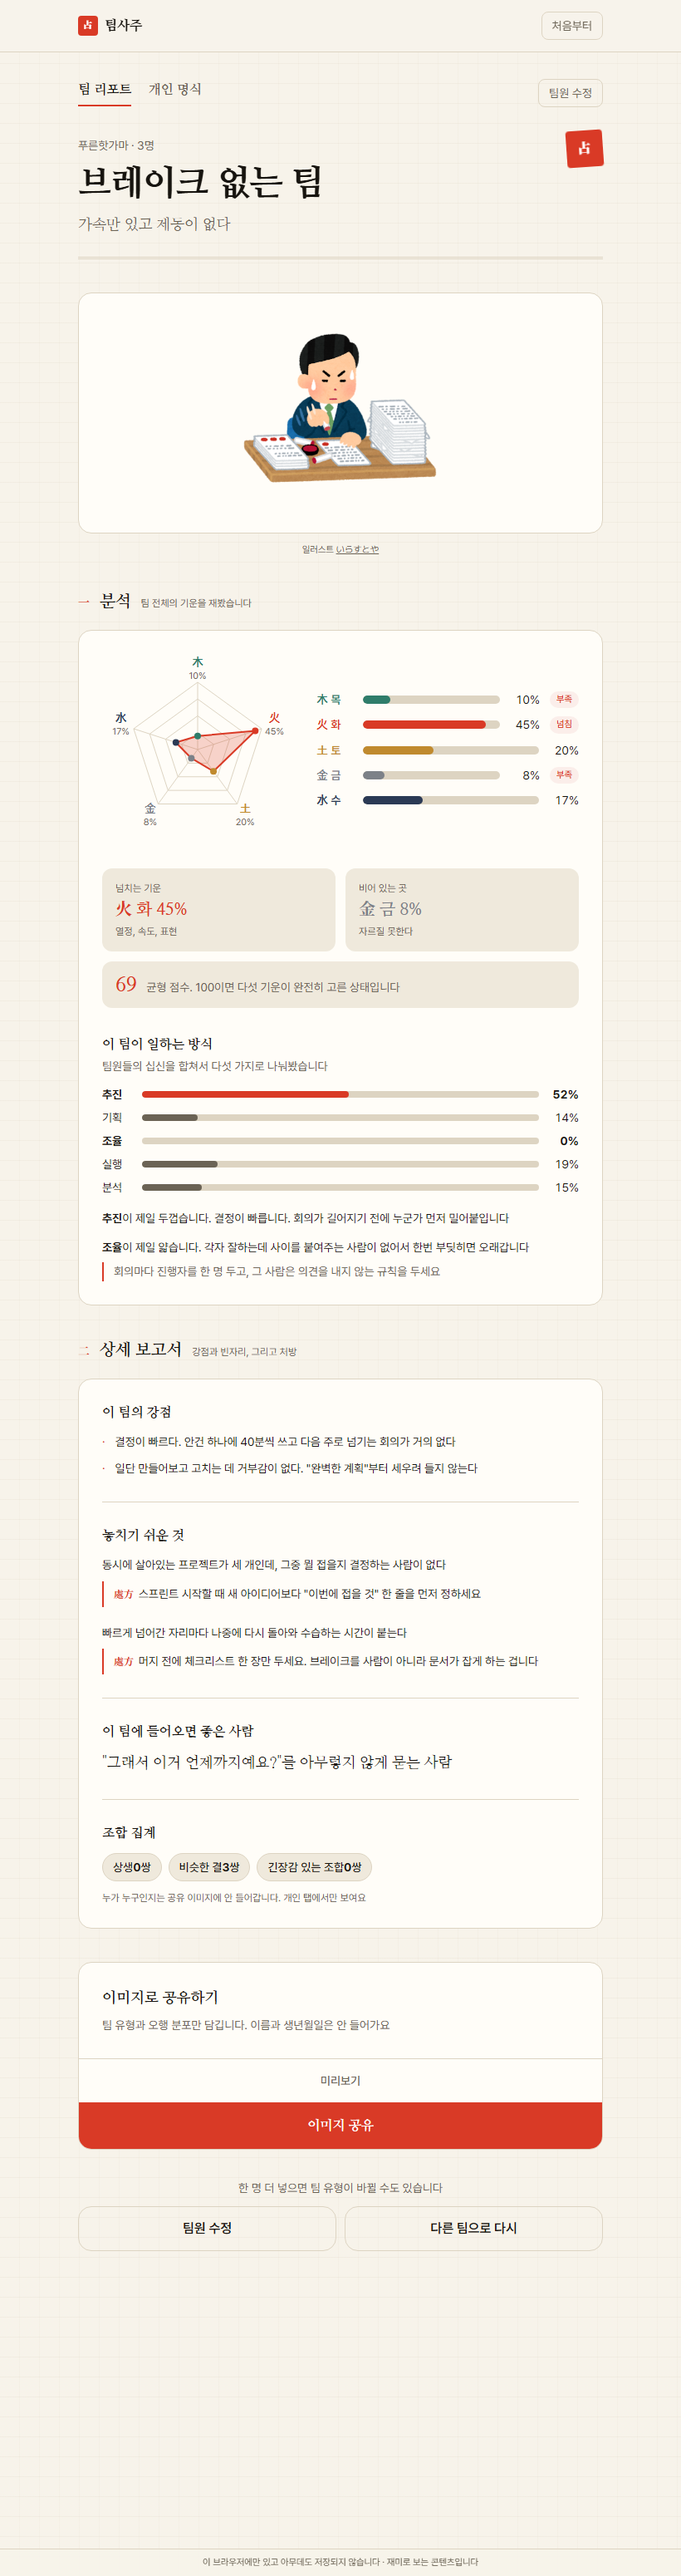
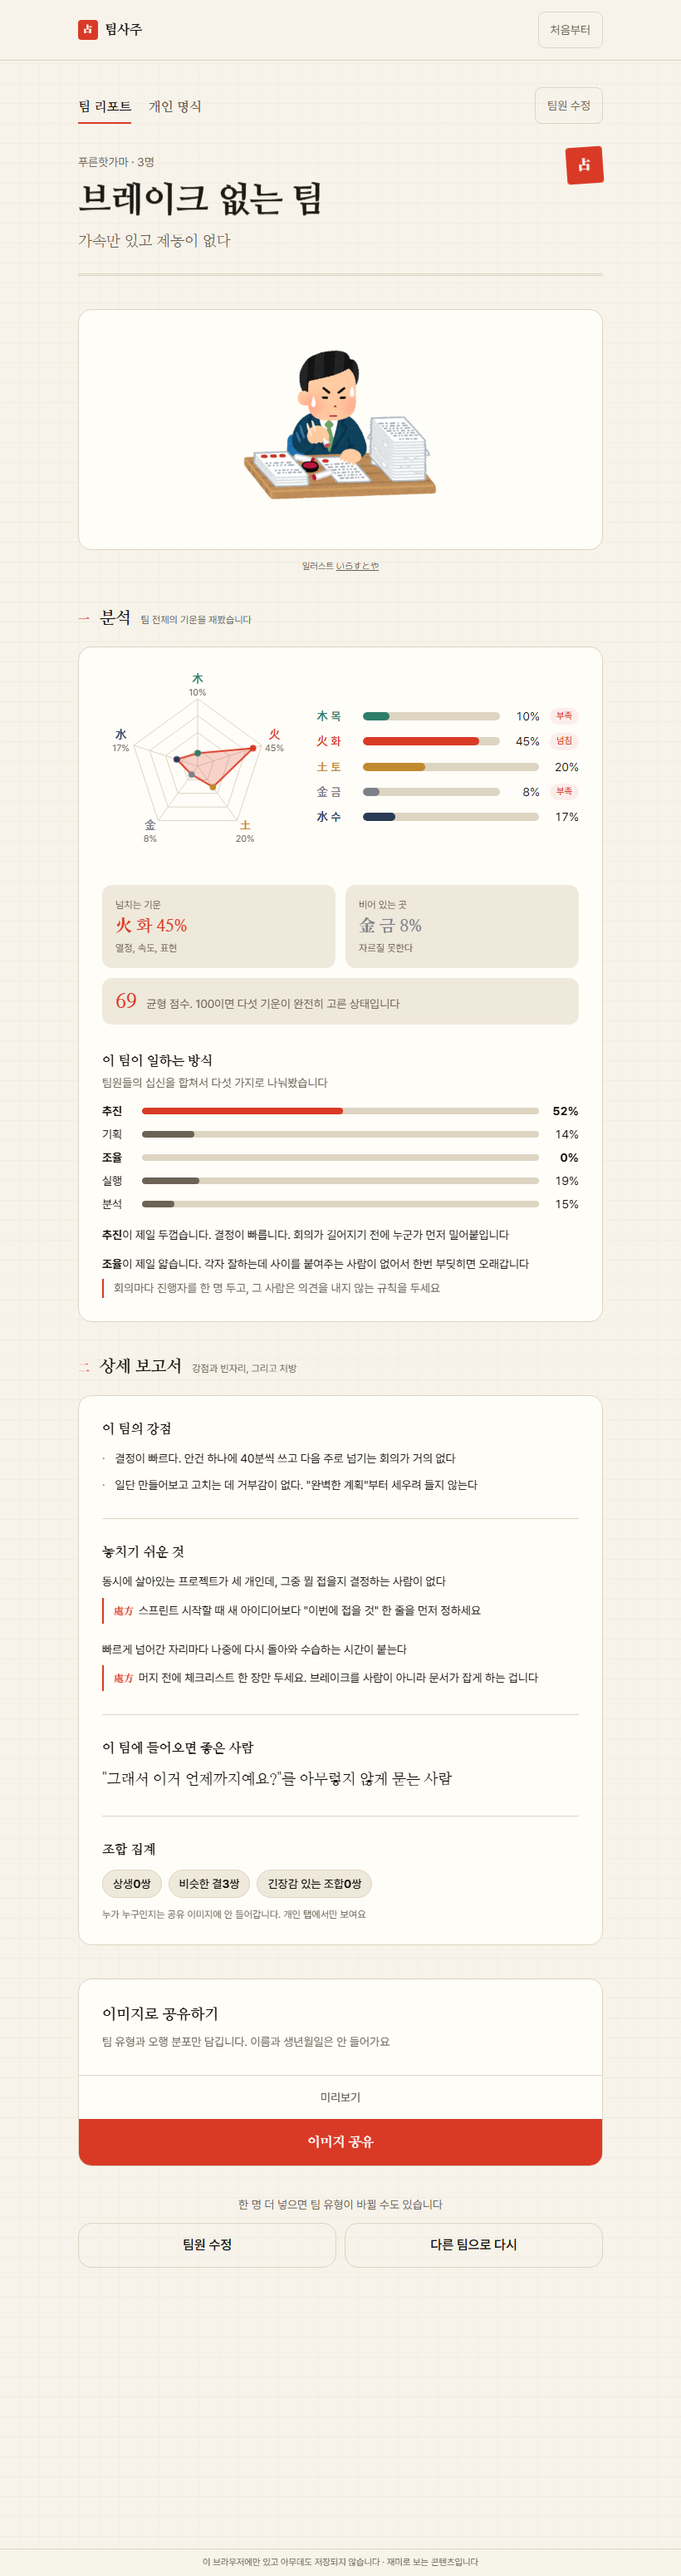
design: 차트가 차오르는 모션과 눌리는 반응을 넣는다

diff --git a/src/lib/ui/useReveal.ts b/src/lib/ui/useReveal.ts
@@ -1,0 +1,92 @@
+import { useEffect, useRef, useState } from 'react'
+
+/** 관찰자가 안 불릴 때 그냥 켜버리는 시간 */
+const FALLBACK_MS = 1200
+
+/** 모션을 꺼둔 사람에게는 애니메이션 없이 최종 상태로 바로 준다 */
+export function prefersReducedMotion(): boolean {
+  return (
+    typeof matchMedia === 'function' &&
+    matchMedia('(prefers-reduced-motion: reduce)').matches
+  )
+}
+
+/**
+ * 화면에 들어올 때 한 번만 켜진다.
+ *
+ * 결과 화면이 길어서 아래쪽 차트는 스크롤해야 보인다. 처음부터 재생하면
+ * 도착했을 때 이미 끝나 있다. 들어오는 순간 시작해야 채워지는 게 보인다.
+ *
+ * 한 번 켜지면 관찰을 끊는다. 스크롤을 오르내릴 때마다 다시 차오르면 성가시다.
+ *
+ * 폴백 타이머를 같이 둔다. 관찰자가 어떤 이유로든 안 불리면 차트가 0 인 채로 영원히 남는다.
+ * 애니메이션을 못 보는 건 참을 수 있어도 결과가 안 보이는 건 안 된다.
+ */
+export function useReveal<T extends Element>() {
+  const ref = useRef<T>(null)
+  // 관찰할 방법이 없거나 모션을 껐으면 처음부터 켜둔다
+  const [shown, setShown] = useState(
+    () => prefersReducedMotion() || typeof IntersectionObserver !== 'function',
+  )
+
+  useEffect(() => {
+    if (shown) return
+    const el = ref.current
+    if (!el) return
+
+    const fallback = window.setTimeout(() => setShown(true), FALLBACK_MS)
+
+    const io = new IntersectionObserver(
+      (entries) => {
+        if (entries.some((e) => e.isIntersecting)) {
+          setShown(true)
+          io.disconnect()
+        }
+      },
+      { threshold: 0.2 },
+    )
+    io.observe(el)
+    return () => {
+      io.disconnect()
+      window.clearTimeout(fallback)
+    }
+  }, [shown])
+
+  return { ref, shown }
+}
+
+/**
+ * 0에서 목표값까지 세어 올린다.
+ *
+ * requestAnimationFrame 으로 돈다. setInterval 은 프레임과 안 맞아서 숫자가 튄다.
+ *
+ * 여기도 받침을 둔다. rAF 는 문서가 숨겨지면 멈추는데, 그 사이 화면에 0 이 남아 있으면
+ * 균형 점수가 0점인 것처럼 보인다. 애니메이션보다 맞는 숫자가 먼저다.
+ */
+export function useCountUp(target: number, run: boolean, ms = 900): number {
+  const [value, setValue] = useState(() => (prefersReducedMotion() ? target : 0))
+
+  useEffect(() => {
+    if (!run) return
+
+    // 모션을 껐으면 길이를 0으로 둔다. 첫 프레임에 목표값으로 끝난다
+    const duration = prefersReducedMotion() ? 0 : ms
+    let raf = 0
+    const start = performance.now()
+    const tick = (now: number) => {
+      const t = duration === 0 ? 1 : Math.min((now - start) / duration, 1)
+      // 감속 곡선. 끝에서 부드럽게 멈춘다
+      const eased = 1 - Math.pow(1 - t, 3)
+      setValue(Math.round(target * eased))
+      if (t < 1) raf = requestAnimationFrame(tick)
+    }
+    raf = requestAnimationFrame(tick)
+    const fallback = window.setTimeout(() => setValue(target), duration + 400)
+    return () => {
+      cancelAnimationFrame(raf)
+      window.clearTimeout(fallback)
+    }
+  }, [target, run, ms])
+
+  return value
+}

diff --git a/src/components/Saju/SajuElementRadar.tsx b/src/components/Saju/SajuElementRadar.tsx
@@ -1,6 +1,7 @@
 import { ELEMENTS, ELEMENT_LABEL } from '../../lib/saju/constants'
 import { ELEMENT_COLOR } from '../../lib/ui/elementStyle'
 import type { ElementScores } from '../../lib/saju/types'
+import { useReveal } from '../../lib/ui/useReveal'
 
 type Props = {
   percents: ElementScores
@@ -21,6 +22,7 @@ function point(index: number, ratio: number, radius: number, center: number) {
 
 /** 오행 5각 레이더. 차트 라이브러리 대신 직접 그린다 */
 export function SajuElementRadar({ percents, size = 240, showLabels = true }: Props) {
+  const { ref, shown } = useReveal<SVGSVGElement>()
   const center = size / 2
   const radius = size / 2 - (showLabels ? 34 : 10)
 
@@ -34,6 +36,7 @@ export function SajuElementRadar({ percents, size = 240, showLabels = true }: Pr
 
   return (
     <svg
+      ref={ref}
       width={size}
       height={size}
       viewBox={`0 0 ${size} ${size}`}
@@ -64,19 +67,33 @@ export function SajuElementRadar({ percents, size = 240, showLabels = true }: Pr
         )
       })}
 
-      <polygon
-        points={shape}
-        fill="var(--accent)"
-        fillOpacity={0.22}
-        stroke="var(--accent)"
-        strokeWidth={2}
-        strokeLinejoin="round"
-      />
+      {/*
+        폴리곤 points 는 CSS 로 전이가 안 된다. 중심에서 펴지는 것처럼 보이게
+        transform scale 을 준다. 꼭짓점 원도 같이 딸려 나온다.
+      */}
+      <g
+        style={{
+          transform: shown ? 'scale(1)' : 'scale(0)',
+          transformOrigin: `${center}px ${center}px`,
+          opacity: shown ? 1 : 0,
+          transition:
+            'transform 800ms cubic-bezier(0.22, 1, 0.36, 1), opacity 400ms ease-out',
+        }}
+      >
+        <polygon
+          points={shape}
+          fill="var(--accent)"
+          fillOpacity={0.22}
+          stroke="var(--accent)"
+          strokeWidth={2}
+          strokeLinejoin="round"
+        />
 
-      {ELEMENTS.map((el, i) => {
-        const [x, y] = point(i, Math.min(percents[el] / MAX, 1), radius, center)
-        return <circle key={el} cx={x} cy={y} r={4} fill={ELEMENT_COLOR[el]} />
-      })}
+        {ELEMENTS.map((el, i) => {
+          const [x, y] = point(i, Math.min(percents[el] / MAX, 1), radius, center)
+          return <circle key={el} cx={x} cy={y} r={4} fill={ELEMENT_COLOR[el]} />
+        })}
+      </g>
 
       {showLabels &&
         ELEMENTS.map((el, i) => {

diff --git a/src/components/Saju/SajuElementBars.tsx b/src/components/Saju/SajuElementBars.tsx
@@ -1,4 +1,5 @@
 import { ELEMENTS, ELEMENT_LABEL, ELEMENT_TEAM_MEANING } from '../../lib/saju/constants'
+import { useReveal } from '../../lib/ui/useReveal'
 import type { ElementFlag, ElementScores } from '../../lib/saju/types'
 import { ELEMENT_COLOR } from '../../lib/ui/elementStyle'
 
@@ -16,9 +17,11 @@ type Props = {
 }
 
 export function SajuElementBars({ percents, flags, showMeaning = false }: Props) {
+  const { ref, shown } = useReveal<HTMLUListElement>()
+
   return (
-    <ul className="flex flex-col gap-2.5">
-      {ELEMENTS.map((el) => {
+    <ul ref={ref} className="flex flex-col gap-2.5">
+      {ELEMENTS.map((el, i) => {
         const flag = flags?.[el] ?? 'normal'
         return (
           <li key={el} className="flex items-center gap-3">
@@ -33,10 +36,13 @@ export function SajuElementBars({ percents, flags, showMeaning = false }: Props)
               style={{ background: 'var(--rule)' }}
             >
               <div
-                className="h-full rounded-full transition-[width] duration-500"
+                className="h-full rounded-full"
                 style={{
-                  width: `${Math.min(percents[el] * 2, 100)}%`,
+                  // 원소마다 조금씩 늦게 출발시켜서 하나씩 차오르게 한다
+                  width: shown ? `${Math.min(percents[el] * 2, 100)}%` : 0,
                   background: ELEMENT_COLOR[el],
+                  transition: 'width 700ms cubic-bezier(0.22, 1, 0.36, 1)',
+                  transitionDelay: `${i * 70}ms`,
                 }}
               />
             </div>

diff --git a/src/components/Result/TeamAnalysis.tsx b/src/components/Result/TeamAnalysis.tsx
@@ -1,6 +1,7 @@
 import { CommonSection, CommonWell } from '../Common'
 import { SajuElementBars, SajuElementRadar, SajuTraitBars } from '../Saju'
 import { readTraits } from '../../lib/report/traits'
+import { useCountUp, useReveal } from '../../lib/ui/useReveal'
 import type { TeamReport } from '../../lib/report/teamReport'
 import { ELEMENT_LABEL } from '../../lib/saju/constants'
 import { ELEMENT_COLOR } from '../../lib/ui/elementStyle'
@@ -9,6 +10,8 @@ export function TeamAnalysis({ report }: { report: TeamReport }) {
   const { analysis, dominant, lacking } = report
   const reading = readTraits(analysis.traits)
   const solo = analysis.size === 1
+  const { ref: balanceRef, shown: balanceShown } = useReveal<HTMLDivElement>()
+  const balanceValue = useCountUp(analysis.balance, balanceShown)
 
   return (
     <CommonSection
@@ -39,11 +42,15 @@ export function TeamAnalysis({ report }: { report: TeamReport }) {
       </div>
 
       <div
+        ref={balanceRef}
         className="mt-3 flex items-baseline gap-3 rounded-xl px-4 py-3"
         style={{ background: 'var(--paper-deep)' }}
       >
-        <span className="serif text-2xl font-bold" style={{ color: 'var(--accent)' }}>
-          {analysis.balance}
+        <span
+          className="serif text-2xl font-bold tabular-nums"
+          style={{ color: 'var(--accent)' }}
+        >
+          {balanceValue}
         </span>
         <span className="text-sm" style={{ color: 'var(--ink-soft)' }}>
           균형 점수. 100이면 다섯 기운이 완전히 고른 상태입니다

diff --git a/src/components/Saju/SajuTraitBars.tsx b/src/components/Saju/SajuTraitBars.tsx
@@ -1,4 +1,5 @@
 import { TRAIT_AXES } from '../../lib/saju/constants'
+import { useReveal } from '../../lib/ui/useReveal'
 import type { TraitAxes, TraitAxis } from '../../lib/saju/types'
 
 /**
@@ -16,9 +17,11 @@ export function SajuTraitBars({
    */
   highlight?: TraitAxis[]
 }) {
+  const { ref, shown } = useReveal<HTMLUListElement>()
+
   return (
-    <ul className="flex flex-col gap-2">
-      {TRAIT_AXES.map((axis) => {
+    <ul ref={ref} className="flex flex-col gap-2">
+      {TRAIT_AXES.map((axis, i) => {
         const dim = highlight != null && !highlight.includes(axis)
         const weight = highlight != null && !dim ? 'font-bold' : ''
         return (
@@ -31,8 +34,10 @@ export function SajuTraitBars({
               <div
                 className="h-full rounded-full"
                 style={{
-                  width: `${traits[axis]}%`,
+                  width: shown ? `${traits[axis]}%` : 0,
                   background: dim ? 'var(--ink-soft)' : 'var(--accent)',
+                  transition: 'width 700ms cubic-bezier(0.22, 1, 0.36, 1)',
+                  transitionDelay: `${i * 70}ms`,
                 }}
               />
             </div>

diff --git a/src/pages/ResultPage.tsx b/src/pages/ResultPage.tsx
@@ -34,7 +34,7 @@ export function ResultPage() {
               type="button"
               onClick={() => setTab(key)}
               aria-pressed={tab === key}
-              className="serif flex min-h-11 items-end pb-1.5 text-base font-bold"
+              className="press serif flex min-h-11 items-end pb-1.5 text-base font-bold"
               style={{
                 color: tab === key ? 'var(--ink)' : 'var(--ink-soft)',
                 borderBottom:
@@ -48,7 +48,7 @@ export function ResultPage() {
         <button
           type="button"
           onClick={goBack}
-          className="min-h-11 rounded-lg px-3.5 text-sm"
+          className="press min-h-11 rounded-lg px-3.5 text-sm"
           style={{ border: '1px solid var(--rule)', color: 'var(--ink-soft)' }}
         >
           팀원 수정

diff --git a/src/components/Input/InputMemberList.tsx b/src/components/Input/InputMemberList.tsx
@@ -45,7 +45,7 @@ export function InputMemberList({ charts, onRemove }: Props) {
               type="button"
               onClick={() => onRemove(c.member.id)}
               aria-label={`${c.member.name} 삭제`}
-              className="flex size-8 items-center justify-center rounded-full text-sm focus-visible:outline-2 focus-visible:outline-offset-2"
+              className="press flex size-8 items-center justify-center rounded-full text-sm focus-visible:outline-2 focus-visible:outline-offset-2"
               style={{
                 background: 'var(--paper-deep)',
                 color: 'var(--ink-soft)',

diff --git a/src/components/Common/CommonButton.tsx b/src/components/Common/CommonButton.tsx
@@ -20,8 +20,8 @@ type Props = ButtonHTMLAttributes<HTMLButtonElement> & {
 const BASE =
   'inline-flex items-center justify-center select-none transition-[transform,filter,background-color] duration-150 ease-out disabled:opacity-40 disabled:pointer-events-none focus-visible:outline-2 focus-visible:outline-offset-2'
 
-/** 눌리는 반응. 살짝 줄고 어두워진다 */
-const PRESS = 'active:scale-[0.985] active:brightness-90'
+/** 눌리는 반응. index.css 의 .press 를 공유한다 */
+const PRESS = 'press'
 
 const SHAPE = {
   normal: 'rounded-2xl px-5 py-3.5 text-base font-semibold',

diff --git a/src/index.css b/src/index.css
@@ -189,3 +189,25 @@ body {
     transition-duration: 0.01ms !important;
   }
 }
+
+/*
+ * 눌리는 반응.
+ * CommonButton 말고도 탭, 칩, 삭제 버튼처럼 누르는 게 많은데 반응이 없으면 밋밋하다.
+ * 모션을 꺼둔 사람에게는 위의 reduced-motion 블록이 전이 시간을 없애준다.
+ */
+.press {
+  transition:
+    transform 150ms ease-out,
+    filter 150ms ease-out;
+}
+
+.press:active {
+  transform: scale(0.96);
+  filter: brightness(0.92);
+}
+
+@media (prefers-reduced-motion: reduce) {
+  .press:active {
+    transform: none;
+  }
+}

diff --git a/src/components/Input/InputUndoToast.tsx b/src/components/Input/InputUndoToast.tsx
@@ -41,7 +41,7 @@ export function InputUndoToast() {
       <button
         type="button"
         onClick={undoRemove}
-        className="serif min-h-11 shrink-0 rounded-lg px-4 text-sm font-bold underline underline-offset-4 focus-visible:outline-2 focus-visible:outline-offset-2"
+        className="press serif min-h-11 shrink-0 rounded-lg px-4 text-sm font-bold underline underline-offset-4 focus-visible:outline-2 focus-visible:outline-offset-2"
         style={{ color: 'var(--paper)', outlineColor: 'var(--paper)' }}
       >
         되돌리기

diff --git a/src/components/Result/PersonalView.tsx b/src/components/Result/PersonalView.tsx
@@ -38,7 +38,7 @@ export function PersonalView({
             type="button"
             onClick={() => setSelected(i)}
             aria-pressed={i === selected}
-            className="rounded-full px-3.5 py-1.5 text-sm font-medium"
+            className="press min-h-11 rounded-full px-4 text-sm font-medium"
             style={
               i === selected
                 ? { background: 'var(--accent)', color: '#fff' }

diff --git a/src/components/Layout/AppHeader.tsx b/src/components/Layout/AppHeader.tsx
@@ -21,7 +21,7 @@ export function AppHeader() {
           <button
             type="button"
             onClick={goLanding}
-            className="min-h-11 rounded-lg px-3.5 text-sm"
+            className="press min-h-11 rounded-lg px-3.5 text-sm"
             style={{ border: '1px solid var(--rule)', color: 'var(--ink-soft)' }}
           >
             처음부터
